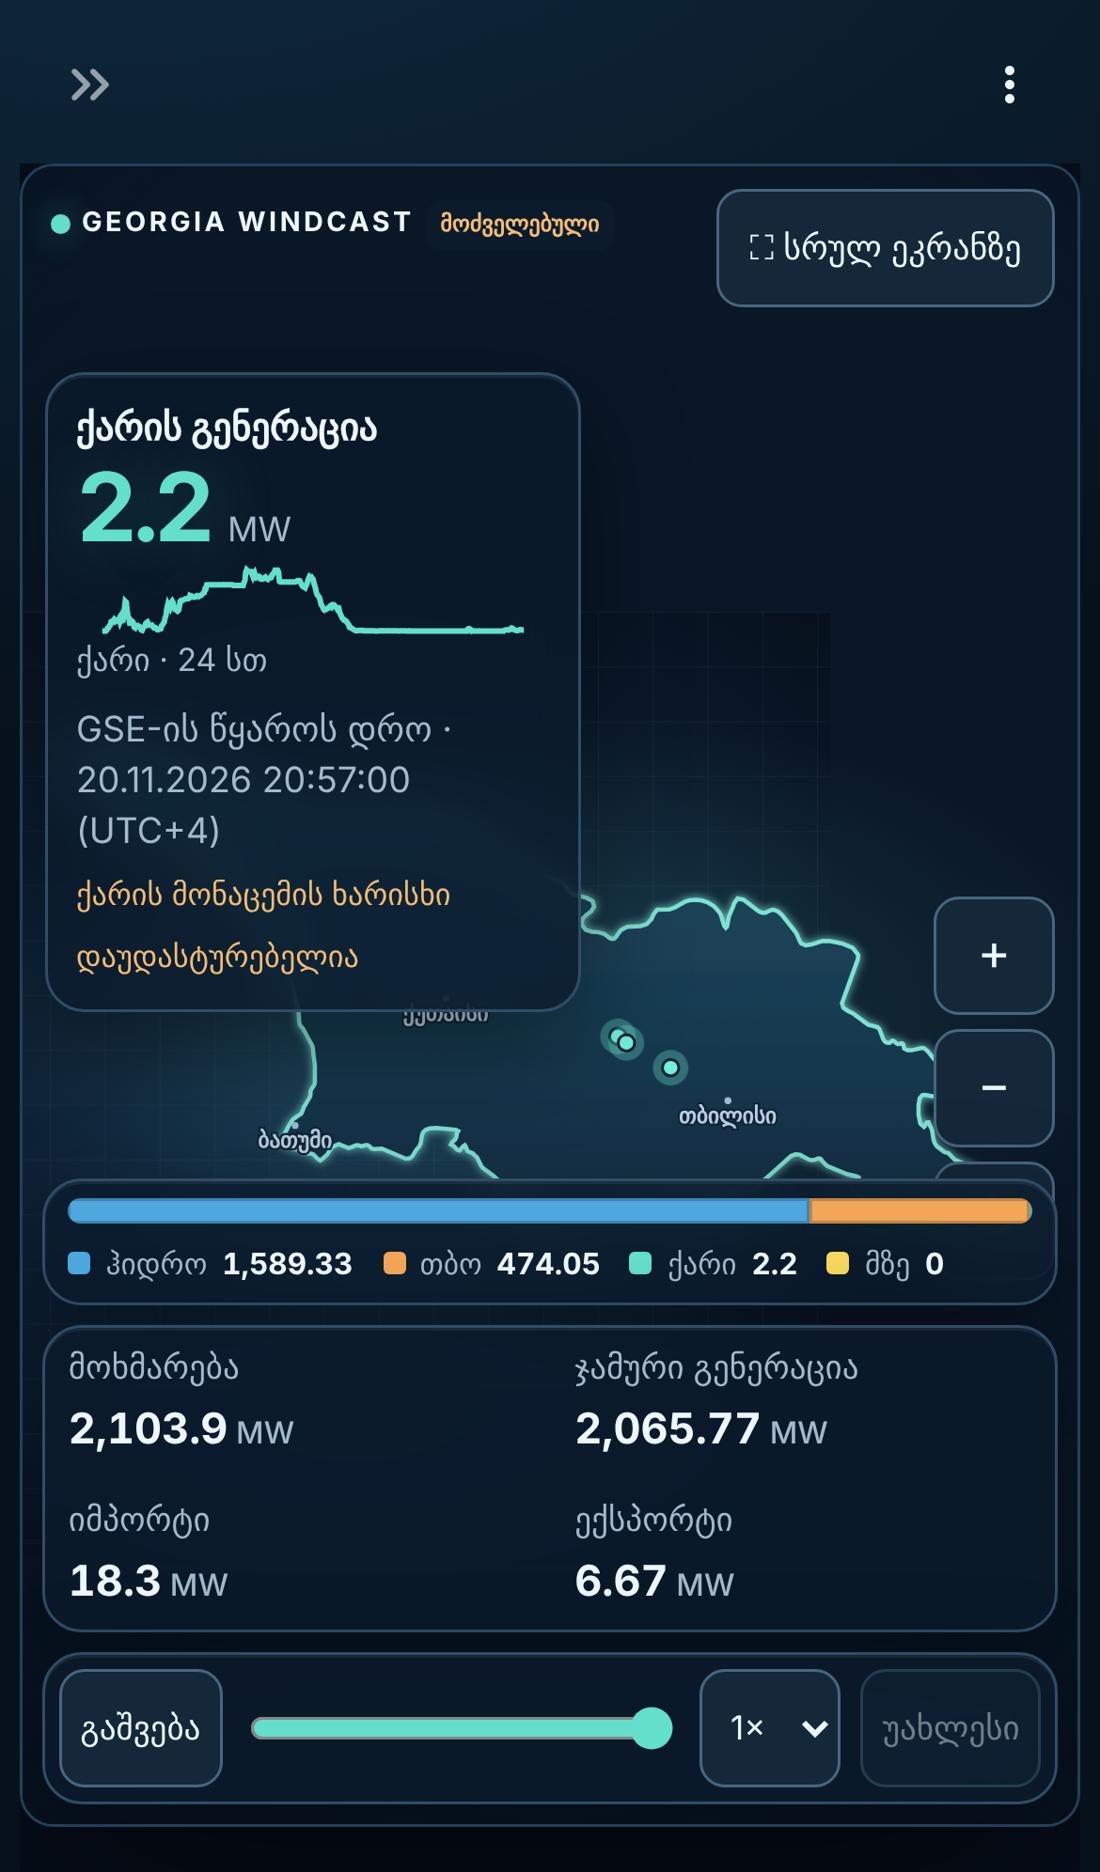
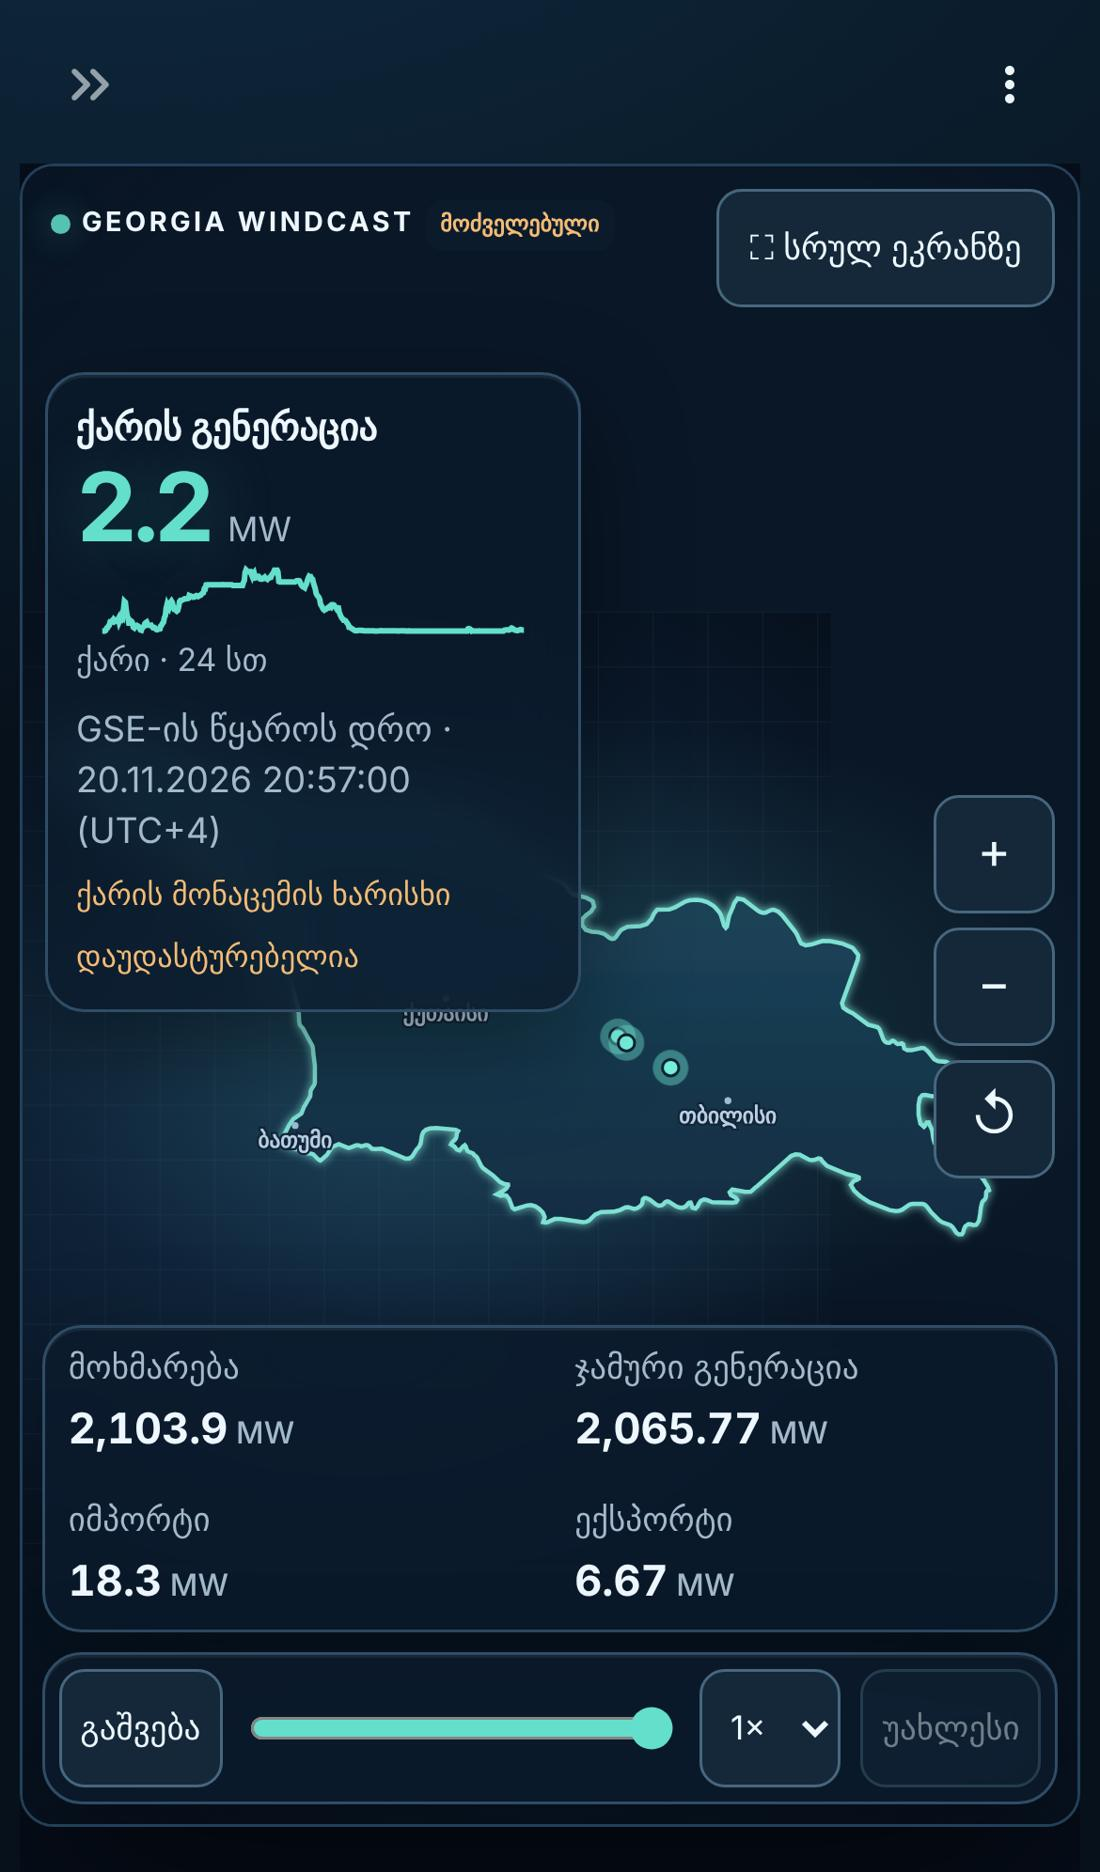
Map stage 2: phones keep the map clear (mix bar below the map), zoom tools reachable
Claude-Session: https://claude.ai/code/session_01U3AJnEPoHgYhbtWQKDYSQE

Changed region(s): [[0.0618, 0.4338, 0.9582, 0.6816], [0.0927, 0.3098, 0.1545, 0.3408], [0.0309, 0.0929, 0.0618, 0.1239]]

diff --git a/streamlit_cloud/system_map_frontend/map.css b/streamlit_cloud/system_map_frontend/map.css
@@ -101,11 +101,11 @@ a{color:#8fdbff}
   .wind h1{font-size:.88rem}
   #trend{height:26px}
   .reading output{font-size:2.25rem}
-  .map-tools{right:8px;top:44%}
+  .map-tools{right:8px}
   .stage-bottom{inset:auto 7px 7px}
   .strip{grid-template-columns:repeat(2,minmax(0,1fr))}
-  .mix{padding:.4rem .55rem}
-  .mix-legend{gap:.2rem .7rem;font-size:.7rem}
+  #mix-panel{display:none}  /* phones: the same mix values are in the balance section below the map */
+  .map-tools{top:38%}
   .metric{padding:.4rem .55rem}
   .metric strong{font-size:1rem}
   #site-info{left:8px;bottom:172px}
